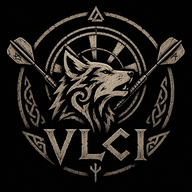
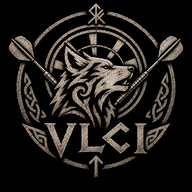
Změna loga

diff --git a/index.html b/index.html
@@ -5,9 +5,9 @@
 <meta name="viewport" content="width=device-width, initial-scale=1, viewport-fit=cover">
 <meta name="theme-color" content="#0b0a09">
 <title>Vlci – šipkařský tým</title>
-<link rel="icon" type="image/png" sizes="32x32" href="assets/favicon-32.png">
-<link rel="icon" type="image/png" sizes="192x192" href="assets/icon-192.png">
-<link rel="apple-touch-icon" href="assets/apple-touch-icon.png">
+<link rel="icon" type="image/png" sizes="32x32" href="assets/favicon-32.png?v=6">
+<link rel="icon" type="image/png" sizes="192x192" href="assets/icon-192.png?v=6">
+<link rel="apple-touch-icon" href="assets/apple-touch-icon.png?v=6">
 <link rel="manifest" href="manifest.webmanifest">
 <meta name="apple-mobile-web-app-capable" content="yes">
 <meta name="mobile-web-app-capable" content="yes">
@@ -15,12 +15,12 @@
 <meta name="apple-mobile-web-app-status-bar-style" content="black">
 <link rel="preconnect" href="https://fonts.googleapis.com">
 <link href="https://fonts.googleapis.com/css2?family=Cinzel:wght@500;700&family=Inter:wght@400;500;600&display=swap" rel="stylesheet">
-<link rel="stylesheet" href="assets/style.css?v=5">
+<link rel="stylesheet" href="assets/style.css?v=6">
 </head>
 <body>
 <main>
   <header>
-    <img src="assets/logo.png" alt="Znak týmu Vlci" width="72" height="72">
+    <img src="assets/logo.png?v=6" alt="Znak týmu Vlci" width="72" height="72">
     <div>
       <h1 class="h">Vlci</h1>
       <div class="lab">2. liga F · sezóna 2026/27</div>
@@ -52,8 +52,8 @@
   <a href="#profil" data-t="profil"><svg viewBox="0 0 24 24" aria-hidden="true"><circle cx="12" cy="8" r="4"/><path d="M4 21c1-4 4-6 8-6s7 2 8 6"/></svg>Profil</a>
 </nav>
 
-<script src="assets/config.js?v=5"></script>
-<script src="assets/app.js?v=5"></script>
-<script src="assets/team.js?v=5"></script>
+<script src="assets/config.js?v=6"></script>
+<script src="assets/app.js?v=6"></script>
+<script src="assets/team.js?v=6"></script>
 </body>
 </html>

diff --git a/assets/style.css b/assets/style.css
@@ -3,7 +3,7 @@
 body{margin:0;background:var(--bg);color:var(--sand);font:16px/1.45 'Inter',system-ui,sans-serif}
 main{max-width:520px;margin:0 auto;padding:20px 16px 32px;display:flex;flex-direction:column;gap:18px}
 header{display:flex;align-items:center;gap:14px}
-header img{mix-blend-mode:lighten;border-radius:50%}
+header img{mix-blend-mode:lighten}
 .h{font-family:'Cinzel',serif;letter-spacing:.08em;text-transform:uppercase;color:var(--sand);margin:0;font-weight:700}
 h1.h{font-size:30px}h2.h{font-size:16px}
 .lab{font-size:11px;letter-spacing:.14em;text-transform:uppercase;color:var(--dim);margin:0}
